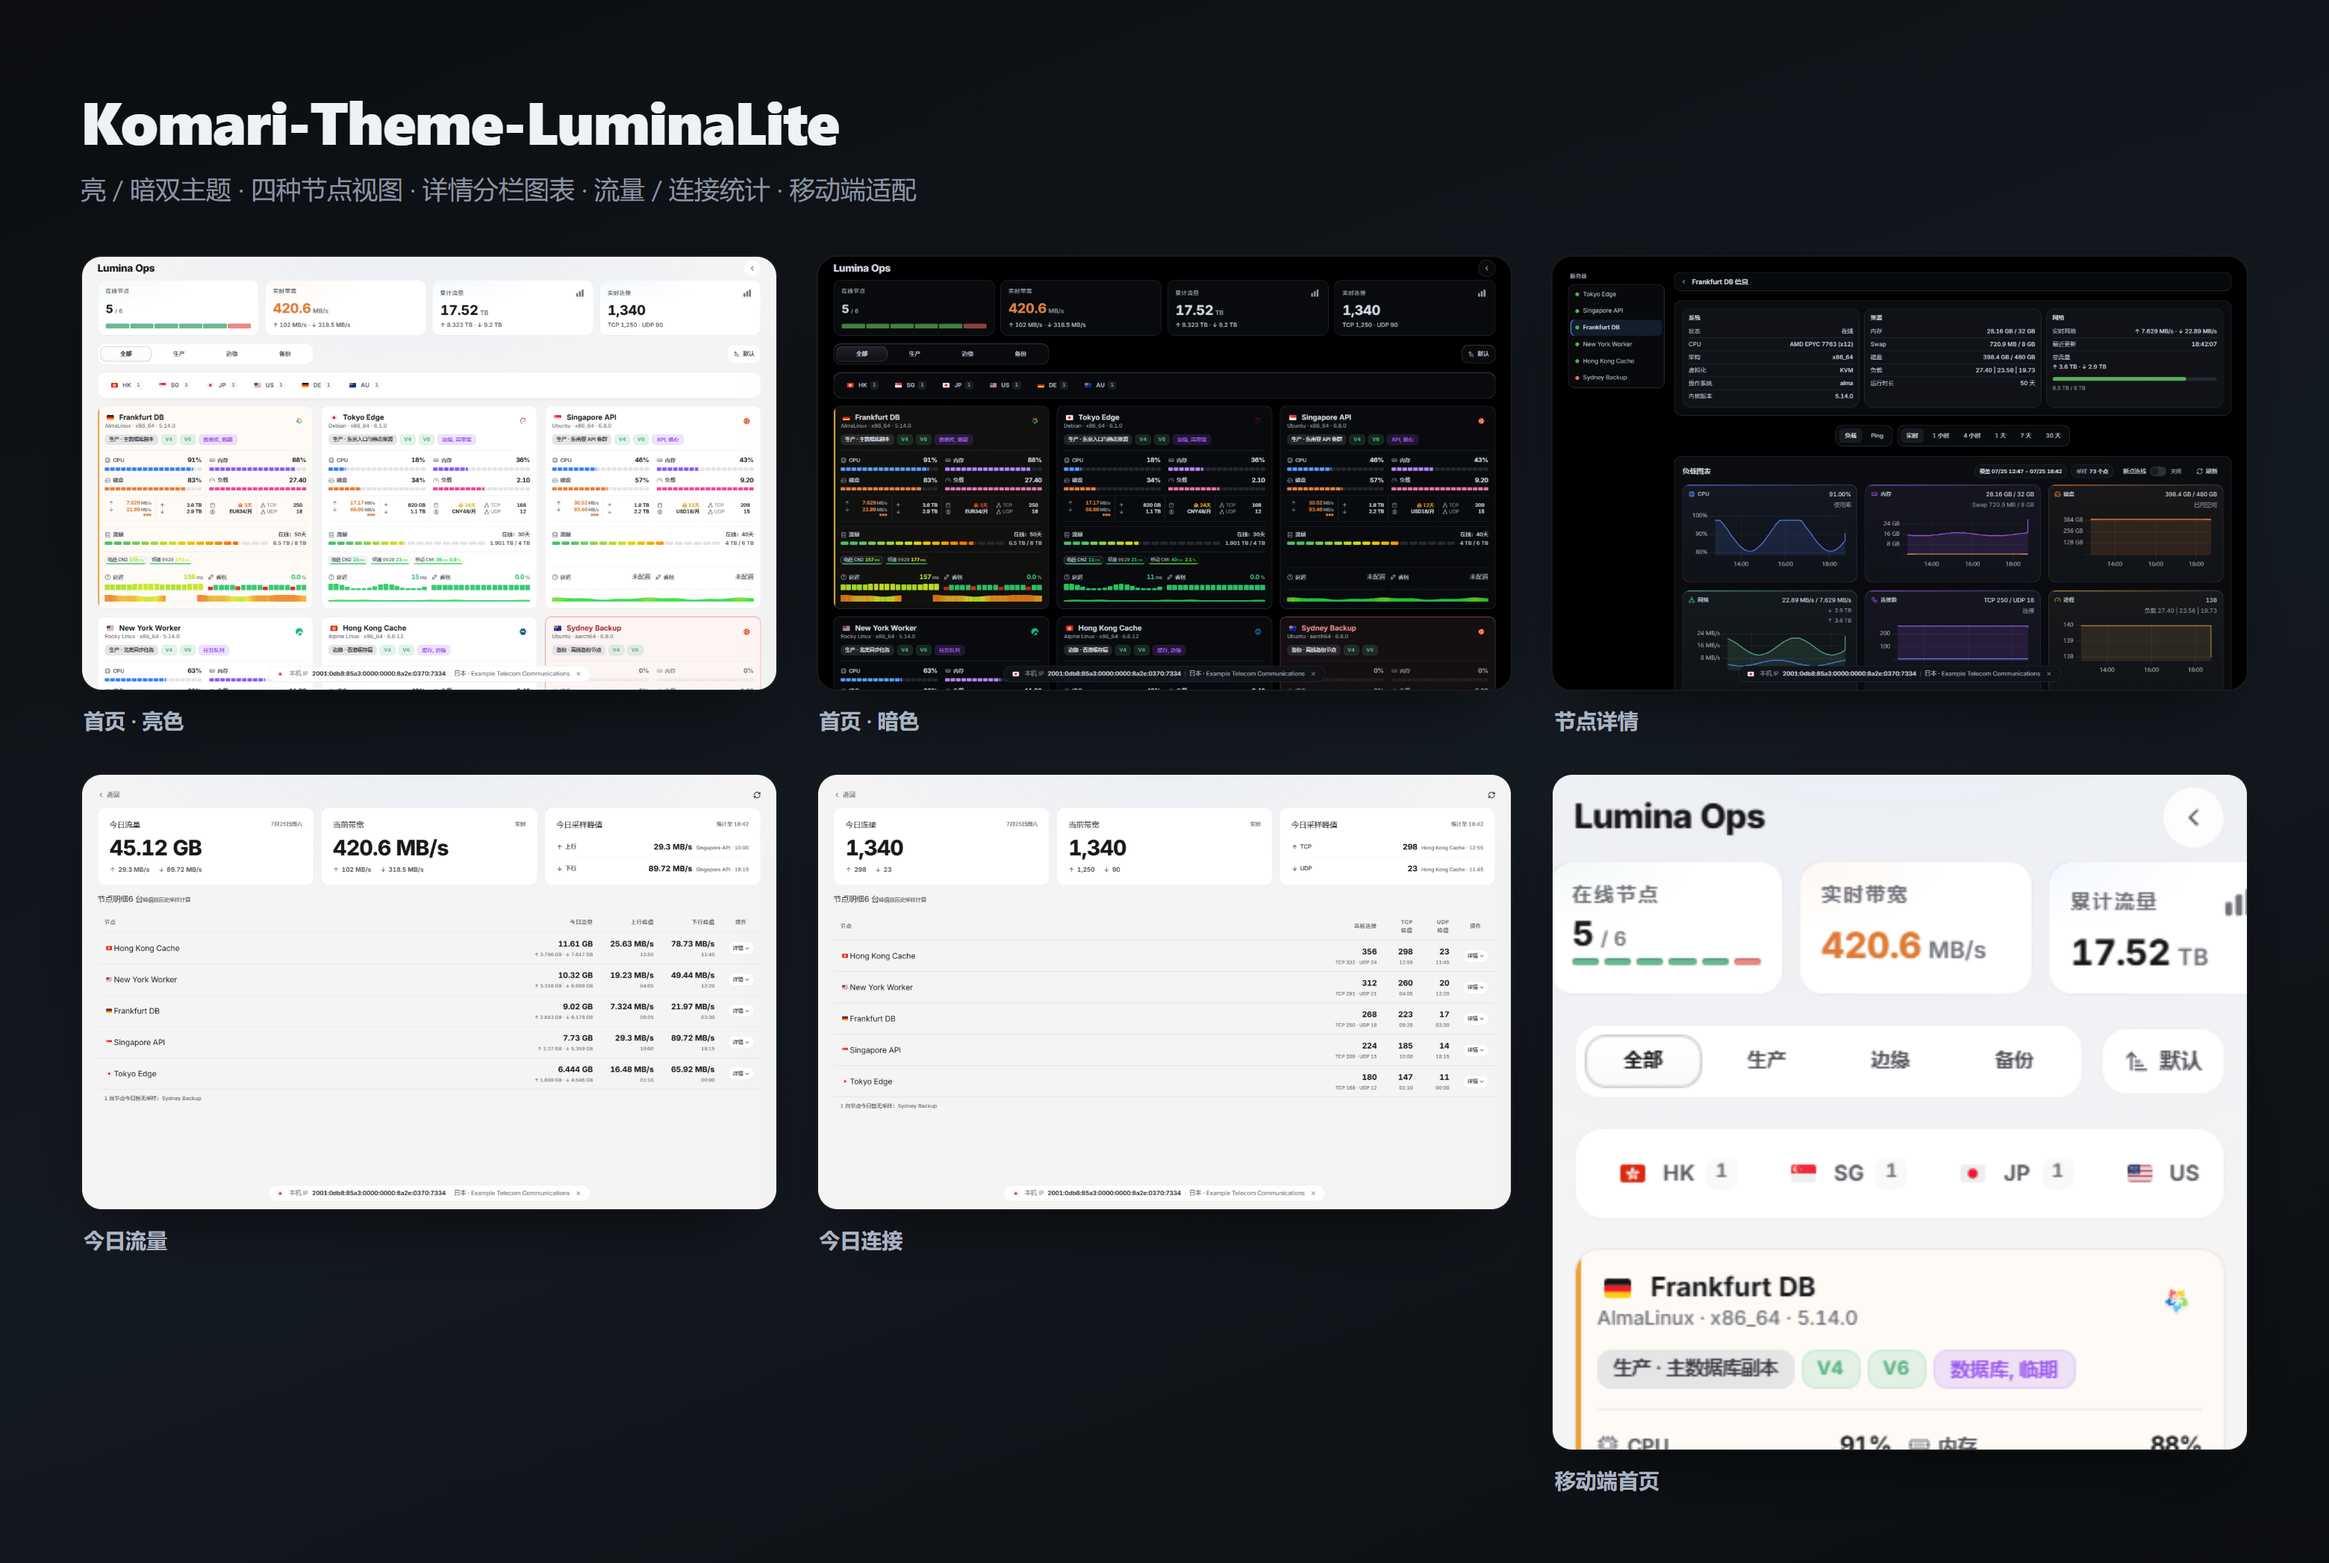
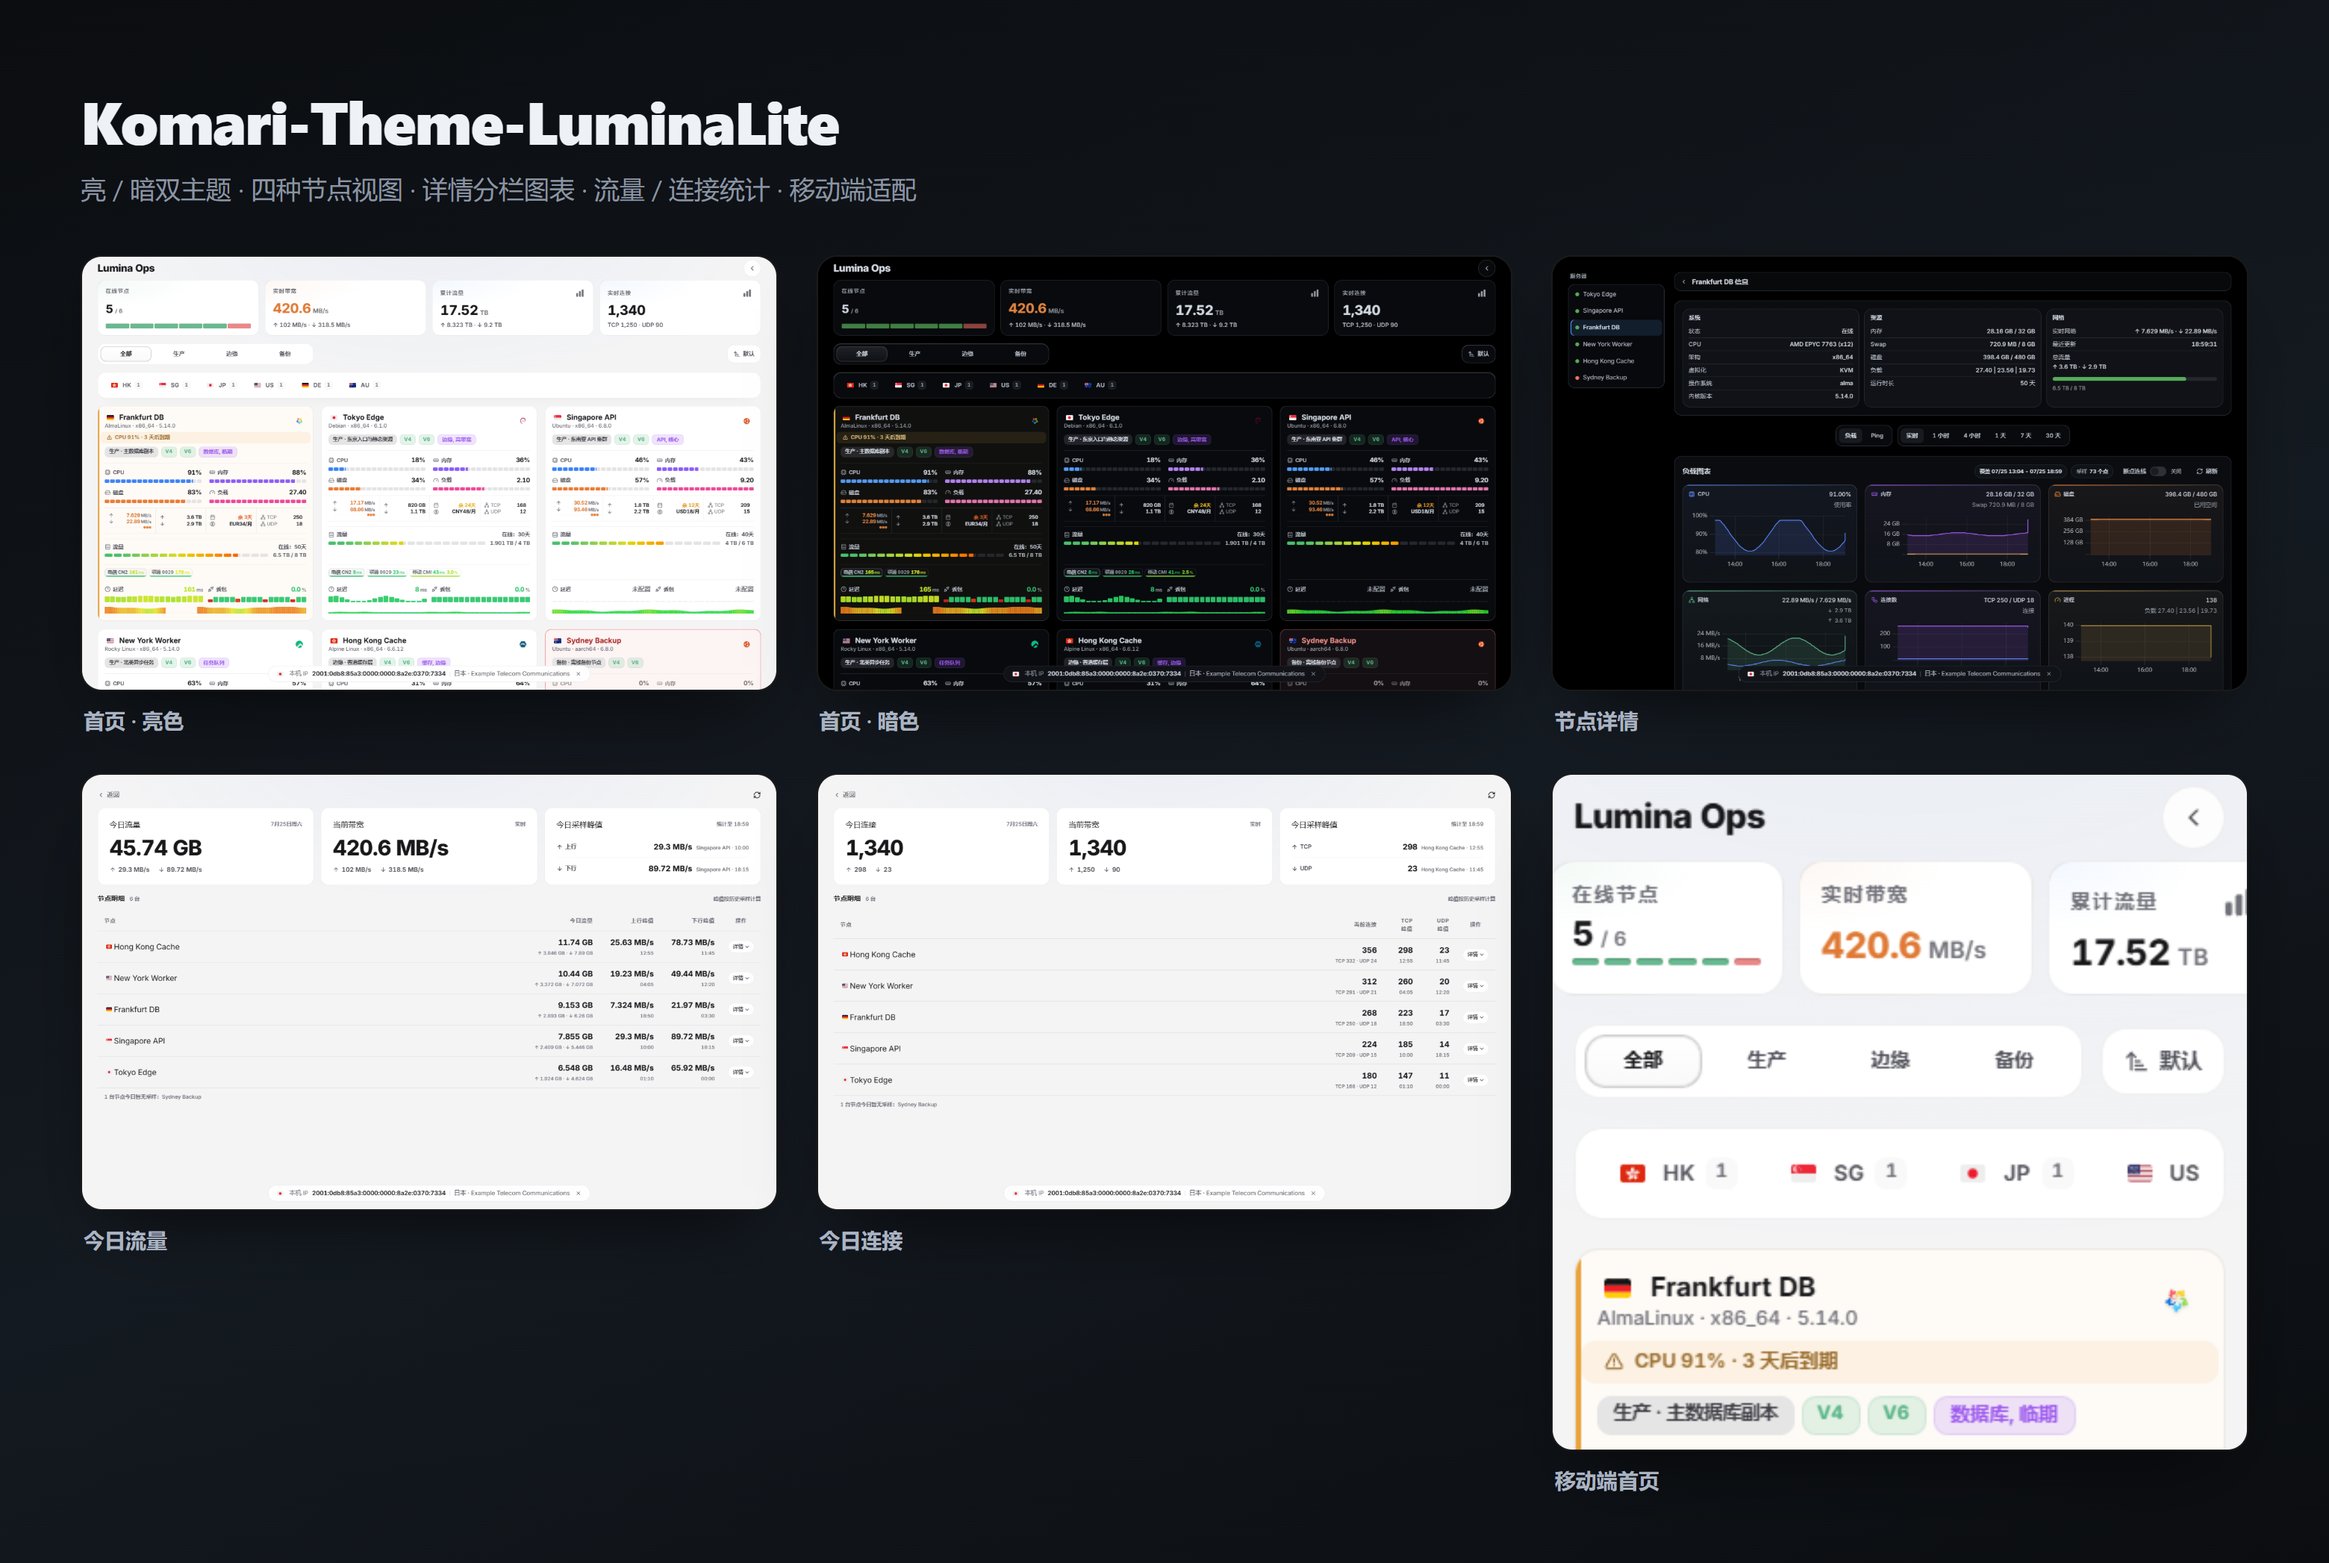
docs: add release notes for v2.1.2

diff --git a/.github/release-notes/v2.1.2.md b/.github/release-notes/v2.1.2.md
@@ -1,0 +1,8 @@
+# Komari-Theme-LuminaLite v2.1.2
+
+异常节点置顶现在一眼能看出原因，顺带修了今日流量页一处挤成一团的文案。
+
+## 改进
+
+- **置顶原因直接写在卡片上**。此前节点被判定为「需要关注」而置顶时，原因只藏在 hover 的 tooltip 里——置顶是为了让人立刻看到问题，还要悬停才知道「为什么被顶上来」就白顶了。现在命中的原因（CPU 92% · 丢包 6.1% · 剩余流量 8% …）以一条警示色胶囊直接显示在大卡、紧凑卡、迷你卡的标题下方，以及列表视图节点名的上方，与既有的左缘竖条、整体染色配套。
+- **修复「节点明细 14 台峰值按历史采样计算」挤在一起**。今日流量/今日连接页的节点明细标题行引用了资产页旧皮肤的类名，那些样式早已删除，三段文字失去布局直接粘连。现已换回本页自己的标题行样式：标题与台数靠左、采样说明靠右。
